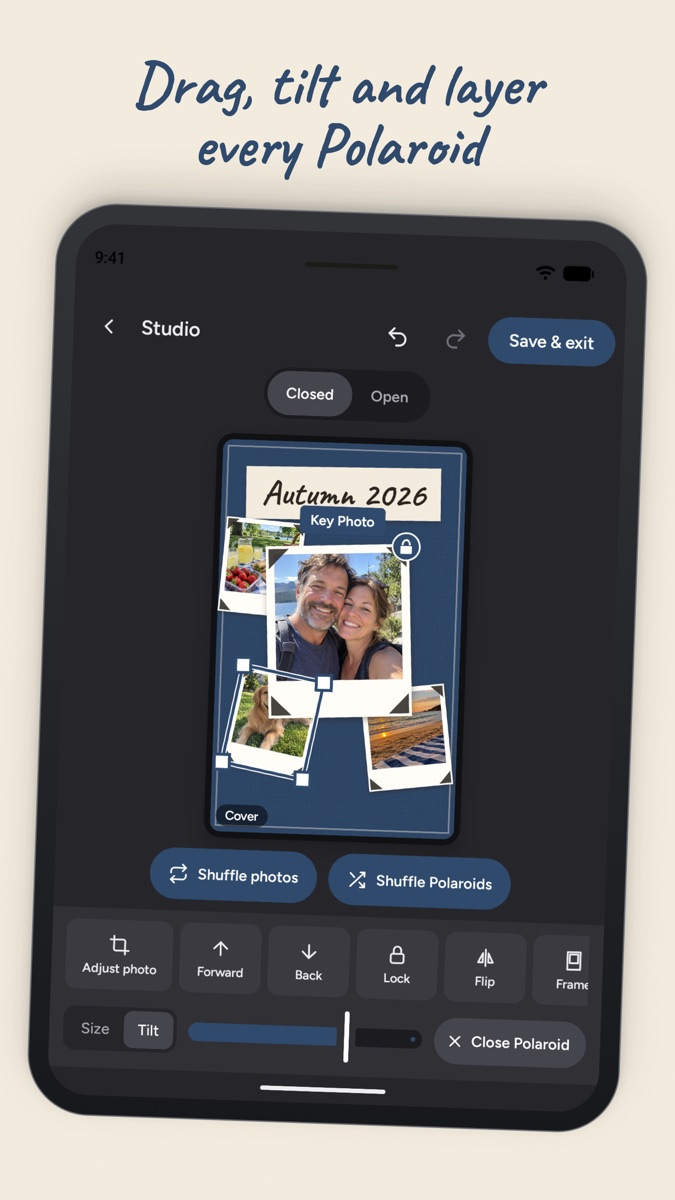
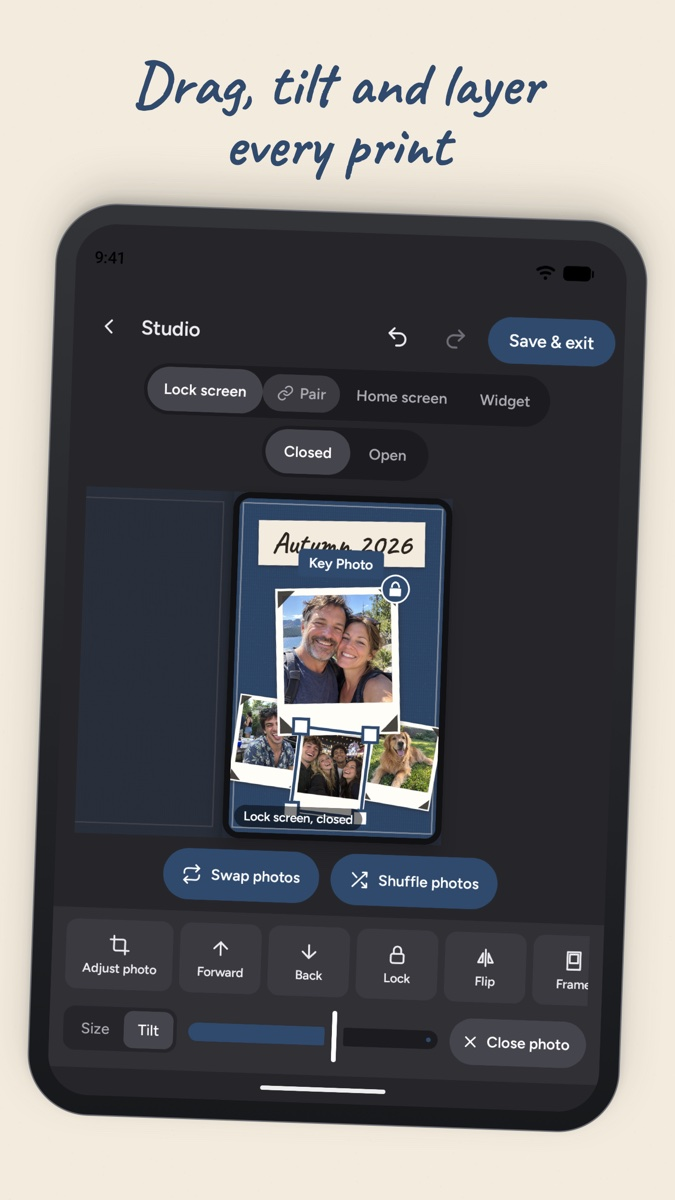
Android launch (1.0.3): "Get it on Google Play" with the tracked link, "instant prints", Scrap Plus with your own stickers, privacy policy of November 4, 2026, new pictures
Founder's OK, 2026-11-09 (launch-day decision D-58: Android first). Nothing about the App Store added.

diff --git a/privacy/index.html b/privacy/index.html
@@ -33,7 +33,7 @@
 </head>
 <body>
 <div class="corkbg"><div class="wrap top"><a class="wordmark" href="../"><img src="../assets/img/icon-512.png" alt="">Scrap</a><nav><a href="../#foldables">Foldables</a><a href="../#key-photo">Key Photo</a><a href="../privacy/">Privacy</a><a href="../support/">Support</a></nav></div></div>
-<main class="wrap section"><article class="card page"><h1>Privacy policy for Scrap</h1><p class="muted typed" style="font-size:14px">Last updated October 20, 2026</p><p>Scrap is a scrapbook wallpaper app for Android, made by Brayan Castaneda De Santiago. This page explains what happens to your information when you use Scrap. The short version: Scrap has no account, no ads and no analytics, and your photos stay on your phone.</p><h2>What Scrap keeps on your phone</h2><ul><li>Photos you add. Scrap makes its own copy of each photo you pick or take, so your book still works if the original is deleted. When it saves the copy, Scrap removes the hidden details cameras add (such as the location where the photo was taken). For each photo it keeps just two plain facts: when the photo was taken, and its size (how wide and how tall it is). That&#x27;s all. Nobody can see your photo or re-create it from those two facts. Scrap uses them for the date stamp and for Find my photos (see Android backup).</li><li>Your books: layouts, titles, captions and settings.</li><li>A record of what you bought, so paid items work without the internet.</li><li>A few notes about the wallpaper: when it last appeared on each screen, which home screen app you use, and how many times a double-tap opened Scrap&#x27;s camera. Scrap uses them to show you the right tips, and they go into a feedback email only if you send one (see below).</li></ul><p>All of this is stored only on your phone, in Scrap&#x27;s own private storage. We, the makers of Scrap, never receive it. Scrap has no server.</p><h2>Camera</h2><p>Scrap uses your camera only while you have Scrap&#x27;s camera open, to take photos for your book. When you keep a photo (Add to book, New Key Photo or Save), Scrap also saves the photo itself to your phone&#x27;s gallery, in an album called Scrap, so you can use it outside Scrap like any other photo. Photos you retake or don&#x27;t save aren&#x27;t kept anywhere. If your phone backs up its gallery (for example to Google Photos), those photos are backed up like your others; that is your phone&#x27;s or Google&#x27;s service, not Scrap&#x27;s.</p><h2>What leaves your phone, and only when you choose</h2><ul><li>Save a copy of your book: this saves one file with all the photos in the book, wherever you choose (for example Google Drive). It goes only where you send it. Anyone you give it to can see the photos inside.</li><li>Send feedback: this opens your own email app with a message to us. Nothing is sent until you press Send. The message includes the phone&#x27;s model, Android version, Scrap version and screen sizes, which home screen app you use, how many times a double-tap opened Scrap&#x27;s camera, whether Scrap is the wallpaper on the screen you&#x27;re using, and when Scrap&#x27;s wallpaper last appeared on each screen, so we can match problems to phones. You can read all of it in the email before you send it, and delete any of it. We receive your email address and what you write. We use it only to reply and to fix problems, never for marketing. We delete it when it&#x27;s no longer needed, or sooner if you ask.</li></ul><h2>Purchases</h2><p>Scrap Plus and packs are sold through Google Play. Google handles the payment; Scrap never sees your card or bank details. Google Play tells Scrap which items your Google account owns, so they unlock on your phone, and Scrap keeps that record on your phone only. Google Play&#x27;s billing system, which is built into Scrap so you can buy things, may send Google technical reports about how purchases and the connection to Google Play are working. Google handles that information under its own privacy policy (https://policies.google.com/privacy). We don&#x27;t receive it.</p><h2>Android backup</h2><p>If backup is turned on in your phone&#x27;s settings, Android may back up Scrap&#x27;s book layouts and settings to your Google account, so they can come back on a new phone. Your photos and purchase records are left out of this backup. The two facts about each photo (when it was taken and its size) come along with your book, so on a new phone you can tap Find my photos, pick your photos again, and Scrap puts each one back in its place. Photos you pick that weren&#x27;t in your book are left alone. This backup is Google&#x27;s service, governed by Google&#x27;s terms; we can&#x27;t see it.</p><h2>What Scrap doesn&#x27;t do</h2><p>Scrap has no account or sign-in, no advertising, no analytics or tracking, and no friends list or sharing feed. We don&#x27;t sell or share your information with anyone.</p><h2>Children</h2><p>Scrap is not made for children under 13 and doesn&#x27;t knowingly collect anything from them. (In fact it collects nothing.)</p><h2>Deleting your information</h2><p>Everything Scrap keeps is on your phone. To delete all of it, uninstall Scrap (or clear its storage in your phone&#x27;s app settings). Photos Scrap&#x27;s camera saved to your gallery, and book files you saved yourself, stay where they are until you delete them, like any other file. Android backups can be deleted in your Google account&#x27;s backup settings. To have a feedback email deleted, write to us.</p><h2>Changes</h2><p>If Scrap starts handling information differently, we&#x27;ll update this page and the date at the top before the change reaches the app.</p><h2>Contact</h2><p><a href="mailto:scrapwallpaperapp@gmail.com">scrapwallpaperapp@gmail.com</a></p></article></main>
+<main class="wrap section"><article class="card page"><h1>Privacy policy for Scrap</h1><p class="muted typed" style="font-size:14px">Last updated November 4, 2026</p><p>Scrap is a scrapbook wallpaper app for Android, made by Brayan Castaneda De Santiago. This page explains what happens to your information when you use Scrap. The short version: Scrap has no account, no ads and no analytics, and your photos stay on your phone.</p><h2>What Scrap keeps on your phone</h2><ul><li>Photos you add. Scrap makes its own copy of each photo you pick or take, so your book still works if the original is deleted. When it saves the copy, Scrap removes the hidden details cameras add (such as the location where the photo was taken). For each photo it keeps just two plain facts: when the photo was taken, and its size (how wide and how tall it is). That&#x27;s all. Nobody can see your photo or re-create it from those two facts. Scrap uses them for the date stamp and for Find my photos (see Android backup).</li><li>Your own stickers (with Scrap Plus): cut-outs you pick from your photos or paste in. Scrap keeps its own copy of each one, without any hidden details, and looks at what you copied only when you tap Paste.</li><li>Your books: layouts, titles, captions and settings.</li><li>A record of what you bought, so paid items work without the internet.</li><li>A few notes about the wallpaper: when it last appeared on each screen, which home screen app you use, and how many times a double-tap opened Scrap&#x27;s camera. Scrap uses them to show you the right tips, and they go into a feedback email only if you send one (see below).</li></ul><p>All of this is stored only on your phone, in Scrap&#x27;s own private storage. We, the makers of Scrap, never receive it. Scrap has no server.</p><h2>Camera</h2><p>Scrap uses your camera only while you have Scrap&#x27;s camera open, to take photos for your book. When you keep a photo (Add to book, New Key Photo or Save), Scrap also saves the photo itself to your phone&#x27;s gallery, in an album called Scrap, so you can use it outside Scrap like any other photo. Photos you retake or don&#x27;t save aren&#x27;t kept anywhere. If your phone backs up its gallery (for example to Google Photos), those photos are backed up like your others; that is your phone&#x27;s or Google&#x27;s service, not Scrap&#x27;s.</p><h2>What leaves your phone, and only when you choose</h2><ul><li>Save a copy of your book: this saves one file with all the photos in the book, wherever you choose (for example Google Drive). It goes only where you send it. Anyone you give it to can see the photos inside.</li><li>Send feedback: this opens your own email app with a message to us. Nothing is sent until you press Send. The message includes the phone&#x27;s model, Android version, Scrap version and screen sizes, which home screen app you use, how many times a double-tap opened Scrap&#x27;s camera, whether Scrap is the wallpaper on the screen you&#x27;re using, and when Scrap&#x27;s wallpaper last appeared on each screen, so we can match problems to phones. You can read all of it in the email before you send it, and delete any of it. We receive your email address and what you write. We use it only to reply and to fix problems, never for marketing. We delete it when it&#x27;s no longer needed, or sooner if you ask.</li></ul><h2>Purchases</h2><p>Scrap Plus and packs are sold through Google Play. Google handles the payment; Scrap never sees your card or bank details. Google Play tells Scrap which items your Google account owns, so they unlock on your phone, and Scrap keeps that record on your phone only. Google Play&#x27;s billing system, which is built into Scrap so you can buy things, may send Google technical reports about how purchases and the connection to Google Play are working. Google handles that information under its own privacy policy (https://policies.google.com/privacy). We don&#x27;t receive it.</p><h2>Android backup</h2><p>If backup is turned on in your phone&#x27;s settings, Android may back up Scrap&#x27;s book layouts and settings to your Google account, so they can come back on a new phone. Your photos and purchase records are left out of this backup. The two facts about each photo (when it was taken and its size) come along with your book, so on a new phone you can tap Find my photos, pick your photos again, and Scrap puts each one back in its place. Photos you pick that weren&#x27;t in your book are left alone. This backup is Google&#x27;s service, governed by Google&#x27;s terms; we can&#x27;t see it.</p><h2>What Scrap doesn&#x27;t do</h2><p>Scrap has no account or sign-in, no advertising, no analytics or tracking, and no friends list or sharing feed. We don&#x27;t sell or share your information with anyone.</p><h2>Children</h2><p>Scrap is not made for children under 13 and doesn&#x27;t knowingly collect anything from them. (In fact it collects nothing.)</p><h2>Deleting your information</h2><p>Everything Scrap keeps is on your phone. To delete all of it, uninstall Scrap (or clear its storage in your phone&#x27;s app settings). Photos Scrap&#x27;s camera saved to your gallery, and book files you saved yourself, stay where they are until you delete them, like any other file. Android backups can be deleted in your Google account&#x27;s backup settings. To have a feedback email deleted, write to us.</p><h2>Changes</h2><p>If Scrap starts handling information differently, we&#x27;ll update this page and the date at the top before the change reaches the app.</p><h2>Contact</h2><p><a href="mailto:scrapwallpaperapp@gmail.com">scrapwallpaperapp@gmail.com</a></p></article></main>
 <footer class="footer">
   <div class="wrap">
     <div class="hand">Scrap</div>

diff --git a/index.html b/index.html
@@ -37,8 +37,8 @@
   <div class="wrap grid2" style="align-items:center;padding-top:16px">
     <div class="polaroid tilt-l" style="padding:18px 22px 24px"><span class="mp" style="--tilt:-1.5deg"><img src="assets/img/pins/red.shadow.png" alt=""><img src="assets/img/pins/red.png" alt=""></span>
       <h1 style="font-size:clamp(40px,5.6vw,60px)">Your photos, as a scrapbook on your home screen.</h1>
-      <p style="font-size:19px;margin:14px 0 18px">Polaroids, tape and pins on paper. On a foldable, it opens like a book. Private by design: your photos stay on your phone.</p>
-      <a class="btn" href="#coming-soon">Coming soon on Google Play</a>
+      <p style="font-size:19px;margin:14px 0 18px">Instant prints, tape and pins on paper. On a foldable, it opens like a book. Private by design: your photos stay on your phone.</p>
+      <a class="btn" href="https://play.google.com/store/apps/details?id=app.scrap&amp;referrer=utm_source%3Dwebsite%26utm_medium%3Dorganic%26utm_campaign%3Dscr-web-play">Get it on Google Play</a>
     </div>
     <div class="hero-shots">
       <div class="polaroid tilt-r"><span class="pp" style="--tilt:1.2deg"><img src="assets/img/pushpins/blue.shadow.png" alt=""><img src="assets/img/pushpins/blue.png" alt=""></span><img src="assets/img/shot-1.jpg" alt="Close it: the cover. Open it: the book." width="675" height="1200"><div class="cap">Close it, open it</div></div>
@@ -69,7 +69,7 @@
 <section class="section" id="studio">
   <div class="wrap">
     <h2 style="text-align:center">Make it yours in the studio</h2>
-    <p class="muted" style="text-align:center;max-width:640px;margin:10px auto 36px">Arrange Polaroids on cork, kraft, lined or plain paper. Tape, pins, photo corners, captions and date stamps. Drag, tilt, resize and layer everything.</p>
+    <p class="muted" style="text-align:center;max-width:640px;margin:10px auto 36px">Arrange instant prints on cork, kraft, lined or plain paper. Tape, pins, photo corners, captions and date stamps. Drag, tilt, resize and layer everything.</p>
     <div class="grid3">
       <div class="polaroid tilt-l"><span class="tp cream" style="--tilt:3deg;--shift:-4%"></span><img src="assets/img/shot-3.jpg" alt="The studio" width="675" height="1200"><div class="cap">The studio</div></div>
       <div class="polaroid tilt-s"><span class="tp washi" style="--tilt:-5deg;--shift:2%"></span><img src="assets/img/shot-7.jpg" alt="Packs: magnets, pins and more" width="675" height="1200"><div class="cap">Packs</div></div>
@@ -83,7 +83,7 @@
       <h3>Free</h3>
       <p>One book with unlimited photos, the starter looks, frames and tape, the camera and Key Photo, captions, stamps, and the foldable design.</p>
       <h3>Scrap Plus</h3>
-      <p>One-time purchase, not a subscription: more than one book, extra stamp looks, and two packs of your choice.</p>
+      <p>One-time purchase, not a subscription: more than one book, extra stamp looks, your own stickers, and two packs of your choice.</p>
       <h3>Packs</h3>
       <p class="muted" style="margin:0">Pin board · Fridge door · Journal · Closet investigation · Christmas magnets. Anything you buy works with every look.</p>
     </div>
@@ -91,7 +91,7 @@
       <h3>Private by design</h3>
       <p>Scrap keeps your photos on your phone. It has no server, no account, no ads and no tracking, and it removes the hidden location from every photo it saves. Your photos stay yours.</p>
       <p class="muted">Back your book up any time with "Save a copy". On a new phone, Find my photos puts each photo back in its place.</p>
-      <p class="muted" style="margin:0">Scrap is coming to Google Play for Android. <a href="support/">Questions?</a></p>
+      <p class="muted" style="margin:0">Scrap is on Google Play for Android. <a href="support/">Questions?</a></p>
     </div>
   </div>
 </section>

diff --git a/build.py b/build.py
@@ -79,8 +79,8 @@ def home():
   <div class="wrap grid2" style="align-items:center;padding-top:16px">
     <div class="polaroid tilt-l" style="padding:18px 22px 24px">{mappin('red', -1.5)}
       <h1 style="font-size:clamp(40px,5.6vw,60px)">Your photos, as a scrapbook on your home screen.</h1>
-      <p style="font-size:19px;margin:14px 0 18px">Polaroids, tape and pins on paper. On a foldable, it opens like a book. Private by design: your photos stay on your phone.</p>
-      <a class="btn" href="#coming-soon">Coming soon on Google Play</a>
+      <p style="font-size:19px;margin:14px 0 18px">Instant prints, tape and pins on paper. On a foldable, it opens like a book. Private by design: your photos stay on your phone.</p>
+      <a class="btn" href="https://play.google.com/store/apps/details?id=app.scrap&amp;referrer=utm_source%3Dwebsite%26utm_medium%3Dorganic%26utm_campaign%3Dscr-web-play">Get it on Google Play</a>
     </div>
     <div class="hero-shots">
       <div class="polaroid tilt-r">{pushpin('blue', 1.2)}<img src="assets/img/shot-1.jpg" alt="Close it: the cover. Open it: the book." width="675" height="1200"><div class="cap">Close it, open it</div></div>
@@ -111,7 +111,7 @@ def home():
 <section class="section" id="studio">
   <div class="wrap">
     <h2 style="text-align:center">Make it yours in the studio</h2>
-    <p class="muted" style="text-align:center;max-width:640px;margin:10px auto 36px">Arrange Polaroids on cork, kraft, lined or plain paper. Tape, pins, photo corners, captions and date stamps. Drag, tilt, resize and layer everything.</p>
+    <p class="muted" style="text-align:center;max-width:640px;margin:10px auto 36px">Arrange instant prints on cork, kraft, lined or plain paper. Tape, pins, photo corners, captions and date stamps. Drag, tilt, resize and layer everything.</p>
     <div class="grid3">
       <div class="polaroid tilt-l">{tape("cream", 3, -4)}<img src="assets/img/shot-3.jpg" alt="The studio" width="675" height="1200"><div class="cap">The studio</div></div>
       <div class="polaroid tilt-s">{tape("washi", -5, 2)}<img src="assets/img/shot-7.jpg" alt="Packs: magnets, pins and more" width="675" height="1200"><div class="cap">Packs</div></div>
@@ -125,7 +125,7 @@ def home():
       <h3>Free</h3>
       <p>One book with unlimited photos, the starter looks, frames and tape, the camera and Key Photo, captions, stamps, and the foldable design.</p>
       <h3>Scrap Plus</h3>
-      <p>One-time purchase, not a subscription: more than one book, extra stamp looks, and two packs of your choice.</p>
+      <p>One-time purchase, not a subscription: more than one book, extra stamp looks, your own stickers, and two packs of your choice.</p>
       <h3>Packs</h3>
       <p class="muted" style="margin:0">Pin board · Fridge door · Journal · Closet investigation · Christmas magnets. Anything you buy works with every look.</p>
     </div>
@@ -133,7 +133,7 @@ def home():
       <h3>Private by design</h3>
       <p>Scrap keeps your photos on your phone. It has no server, no account, no ads and no tracking, and it removes the hidden location from every photo it saves. Your photos stay yours.</p>
       <p class="muted">Back your book up any time with "Save a copy". On a new phone, Find my photos puts each photo back in its place.</p>
-      <p class="muted" style="margin:0">Scrap is coming to Google Play for Android. <a href="support/">Questions?</a></p>
+      <p class="muted" style="margin:0">Scrap is on Google Play for Android. <a href="support/">Questions?</a></p>
     </div>
   </div>
 </section>
